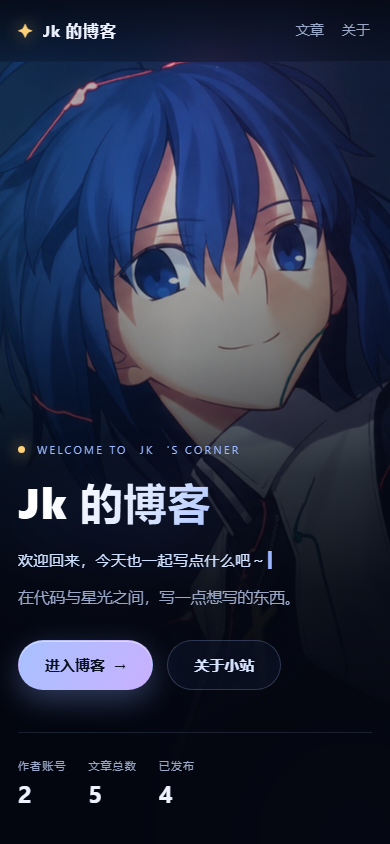
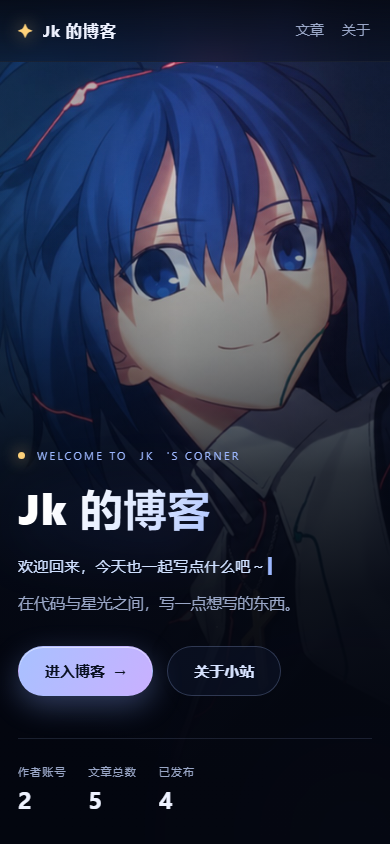
feat: 首页改为上下两屏布局，精简关于区块为一句话+技术标签

diff --git a/web/css/style.css b/web/css/style.css
@@ -361,12 +361,13 @@ img {
    ------------------------------------------------------------------ */
 
 .hero {
+  position: relative;
   display: flex;
   align-items: center;
   max-width: 1320px;
-  min-height: calc(100svh - 72px);
+  min-height: calc(100svh - 64px);
   margin: 0 auto;
-  padding: clamp(40px, 7vh, 88px) clamp(20px, 5vw, 56px) clamp(36px, 6vh, 72px);
+  padding: clamp(40px, 7vh, 88px) clamp(20px, 5vw, 56px) clamp(56px, 8vh, 96px);
 }
 
 .hero-copy {
@@ -467,6 +468,35 @@ img {
   border-top: 1px solid var(--line);
 }
 
+/* 首屏底部的滚动提示 */
+
+.scroll-hint {
+  position: absolute;
+  bottom: clamp(14px, 2.4vh, 26px);
+  left: 50%;
+  display: inline-flex;
+  flex-direction: column;
+  align-items: center;
+  gap: 5px;
+  padding: 6px 14px;
+  border-radius: 999px;
+  color: rgba(180, 200, 235, 0.62);
+  font-size: 0.67rem;
+  letter-spacing: 0.28em;
+  text-decoration: none;
+  transform: translateX(-50%);
+  transition: color 0.2s ease;
+}
+
+.scroll-hint:hover {
+  color: #e6eeff;
+}
+
+.scroll-hint-arrow {
+  font-size: 1rem;
+  animation: scroll-bounce 1.9s ease-in-out infinite;
+}
+
 .stat {
   display: flex;
   flex-direction: column;
@@ -496,6 +526,44 @@ img {
   max-width: 1200px;
   margin: 0 auto;
   padding: clamp(52px, 8vh, 92px) clamp(20px, 5vw, 48px);
+  scroll-margin-top: 72px;
+}
+
+/* 第二屏：内容区（文章 + 关于），用深色渐变和首屏分开 */
+
+.content-stage {
+  position: relative;
+  border-top: 1px solid rgba(148, 170, 220, 0.16);
+  background:
+    radial-gradient(1000px 280px at 50% -80px, rgba(88, 122, 210, 0.22), transparent 72%),
+    linear-gradient(180deg, rgba(4, 7, 16, 0.66) 0%, rgba(4, 7, 16, 0.88) 26%, rgba(4, 7, 16, 0.95) 100%);
+}
+
+.screen-divider {
+  display: flex;
+  align-items: center;
+  justify-content: center;
+  gap: 14px;
+  padding-top: clamp(20px, 4vh, 34px);
+  color: rgba(200, 220, 255, 0.38);
+  font-size: 0.78rem;
+  letter-spacing: 0.3em;
+}
+
+.screen-divider::before,
+.screen-divider::after {
+  content: "";
+  width: min(160px, 20vw);
+  height: 1px;
+  background: linear-gradient(90deg, transparent, rgba(148, 170, 220, 0.35));
+}
+
+.screen-divider::after {
+  background: linear-gradient(90deg, rgba(148, 170, 220, 0.35), transparent);
+}
+
+.content-stage .feed-section {
+  padding-top: clamp(24px, 4vh, 44px);
 }
 
 .section-head {
@@ -744,7 +812,7 @@ img {
 .about-card {
   position: relative;
   overflow: hidden;
-  padding: clamp(28px, 4vw, 52px);
+  padding: clamp(24px, 3.4vw, 44px);
   border: 1px solid var(--line);
   border-radius: var(--radius-lg);
   background: linear-gradient(150deg, rgba(22, 32, 64, 0.66), rgba(8, 13, 27, 0.8));
@@ -775,8 +843,7 @@ img {
   font-weight: 600;
 }
 
-.about-card code,
-.about-item code {
+.about-card code {
   padding: 2px 6px;
   border: 1px solid var(--line);
   border-radius: 5px;
@@ -790,7 +857,7 @@ img {
   display: flex;
   flex-wrap: wrap;
   gap: 10px;
-  margin: 22px 0 8px;
+  margin: 22px 0 0;
   padding: 0;
   list-style: none;
 }
@@ -803,27 +870,6 @@ img {
   color: #cfe0ff;
   font-size: 0.77rem;
   letter-spacing: 0.04em;
-}
-
-.about-grid {
-  display: grid;
-  grid-template-columns: repeat(3, minmax(0, 1fr));
-  gap: clamp(16px, 2.4vw, 32px);
-  margin-top: 30px;
-}
-
-.about-item h3 {
-  margin: 0 0 8px;
-  color: var(--gold);
-  font-size: 0.98rem;
-  letter-spacing: 0.06em;
-}
-
-.about-item p {
-  margin: 0;
-  color: var(--muted);
-  font-size: 0.86rem;
-  line-height: 1.85;
 }
 
 /* ------------------------------------------------------------------
@@ -1192,6 +1238,18 @@ img {
   }
 }
 
+@keyframes scroll-bounce {
+  0%,
+  100% {
+    opacity: 0.55;
+    transform: translateY(-2px);
+  }
+  50% {
+    opacity: 1;
+    transform: translateY(4px);
+  }
+}
+
 /* ------------------------------------------------------------------
    响应式
    ------------------------------------------------------------------ */
@@ -1199,7 +1257,7 @@ img {
 @media (max-width: 1020px) {
   .hero {
     align-items: flex-end;
-    min-height: calc(100svh - 72px);
+    min-height: calc(100svh - 64px);
     padding-top: clamp(24px, 4vh, 48px);
     padding-bottom: clamp(28px, 5vh, 56px);
   }
@@ -1210,6 +1268,10 @@ img {
 
   .hero-subtitle {
     margin-bottom: 28px;
+  }
+
+  .scroll-hint {
+    display: none;
   }
 
   .topbar-badge {
@@ -1239,7 +1301,7 @@ img {
   }
 
   .hero {
-    min-height: calc(100svh - 58px);
+    min-height: calc(100svh - 52px);
     padding-top: 20px;
     padding-bottom: clamp(24px, 5vh, 40px);
     padding-left: 18px;

diff --git a/web/index.html b/web/index.html
@@ -67,56 +67,49 @@
             </div>
           </dl>
         </div>
+
+        <a class="scroll-hint" href="#feed" aria-label="向下滚动查看文章">
+          <span class="scroll-hint-text">向下滚动</span>
+          <span class="scroll-hint-arrow" aria-hidden="true">↓</span>
+        </a>
       </section>
 
-      <section class="section feed-section" id="feed" aria-labelledby="feed-title">
-        <div class="section-head">
-          <div>
-            <p class="section-kicker">Latest posts</p>
-            <h2 class="section-title" id="feed-title">最新文章</h2>
-          </div>
-          <p class="section-note">所有账号的已发布文章，按时间排序。</p>
-        </div>
-        <div class="filter-bar" id="filter-bar" role="group" aria-label="按账号筛选文章">
-          <button class="filter-chip is-active" type="button" data-account="">全部账号</button>
-        </div>
-        <div class="feed" id="feed-list">
-          <p class="feed-state">正在读取文章库…</p>
-        </div>
-      </section>
+      <div class="content-stage">
+        <div class="screen-divider" aria-hidden="true"><span>✦</span></div>
 
-      <section class="section about-section" id="about" aria-labelledby="about-title">
-        <div class="about-card">
-          <p class="section-kicker">About</p>
-          <h2 class="section-title" id="about-title">关于这个小站</h2>
-          <p>
-            这里是一个用 <strong>Node.js + SQLite</strong> 搭起来的博客地基。主库负责登记账号与站点配置，每个账号都拥有自己独立的文章库，互不打扰；前端是原生 HTML / CSS / JavaScript，没有构建步骤。
-          </p>
-          <ul class="tech-tags" role="list">
-            <li>Node.js</li>
-            <li>SQLite</li>
-            <li>Vanilla JS</li>
-            <li>账号分库</li>
-            <li>零依赖</li>
-          </ul>
-          <div class="about-grid">
-            <div class="about-item">
-              <h3>接口</h3>
-              <p>公开只读 API 已经就绪：站点配置、数据统计、跨账号 Feed、账号文章、文章详情。写接口留到下一阶段。</p>
+        <section class="section feed-section" id="feed" aria-labelledby="feed-title">
+          <div class="section-head">
+            <div>
+              <p class="section-kicker">Latest posts</p>
+              <h2 class="section-title" id="feed-title">最新文章</h2>
             </div>
-            <div class="about-item">
-              <h3>背景图</h3>
-              <p>
-                桌面按 <strong>16:9</strong>、手机按 <strong>9:16</strong> 适配。当前背景是一张 1672 × 941 的插画，想在大屏上更清晰可以换成 2560 × 1440 的高清版本。
-              </p>
-            </div>
-            <div class="about-item">
-              <h3>下一步</h3>
-              <p>写作界面、登录权限、评论与 RSS。现在先把地基和数据模型稳住，页面先跑起来。</p>
-            </div>
+            <p class="section-note">所有账号的已发布文章，按时间排序。</p>
           </div>
-        </div>
-      </section>
+          <div class="filter-bar" id="filter-bar" role="group" aria-label="按账号筛选文章">
+            <button class="filter-chip is-active" type="button" data-account="">全部账号</button>
+          </div>
+          <div class="feed" id="feed-list">
+            <p class="feed-state">正在读取文章库…</p>
+          </div>
+        </section>
+
+        <section class="section about-section" id="about" aria-labelledby="about-title">
+          <div class="about-card">
+            <p class="section-kicker">About</p>
+            <h2 class="section-title" id="about-title">关于这个小站</h2>
+            <p>
+              一个用 <strong>Node.js + SQLite</strong> 搭起来的个人博客：主库登记账号，每个账号拥有独立的文章库；前端原生 HTML / CSS / JavaScript，没有构建步骤。
+            </p>
+            <ul class="tech-tags" role="list">
+              <li>Node.js</li>
+              <li>SQLite</li>
+              <li>Vanilla JS</li>
+              <li>账号分库</li>
+              <li>零依赖</li>
+            </ul>
+          </div>
+        </section>
+      </div>
     </main>
 
     <footer class="footer">

diff --git a/README.md b/README.md
@@ -160,6 +160,7 @@ app.close();
 ## 前端说明
 
 - **看板娘起始页**：全屏星空背景 + 站点标题 + 打字机问候 + 数据统计。看板娘目前以文字问候的形式出场，首页不放立绘。
+- **首页分两屏**：首屏是背景视觉区（标题 / 入口 / 数据，底部有「向下滚动」提示），向下滚动进入内容屏（文章列表 + 关于），内容屏用独立深色渐变与首屏区分。
 - **最新文章**：跨账号 Feed；顶部胶囊可按账号筛选，对应「分库」结构。
 - **阅读弹窗**：点击文章卡片，从对应账号库取回正文；内置一个安全的极简 Markdown 渲染器（先整体转义，再渲染）。
 - **文章深链**：`/?post=xiaoxing:1` 可直接打开某篇文章。
